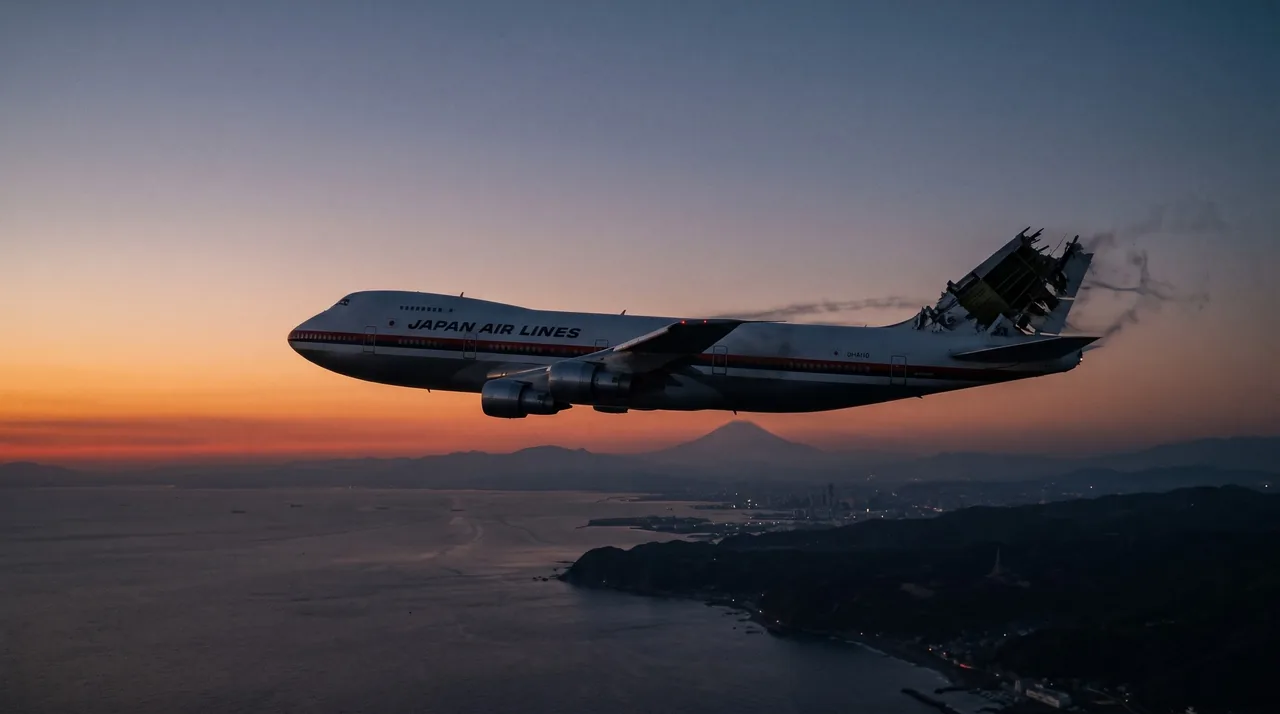
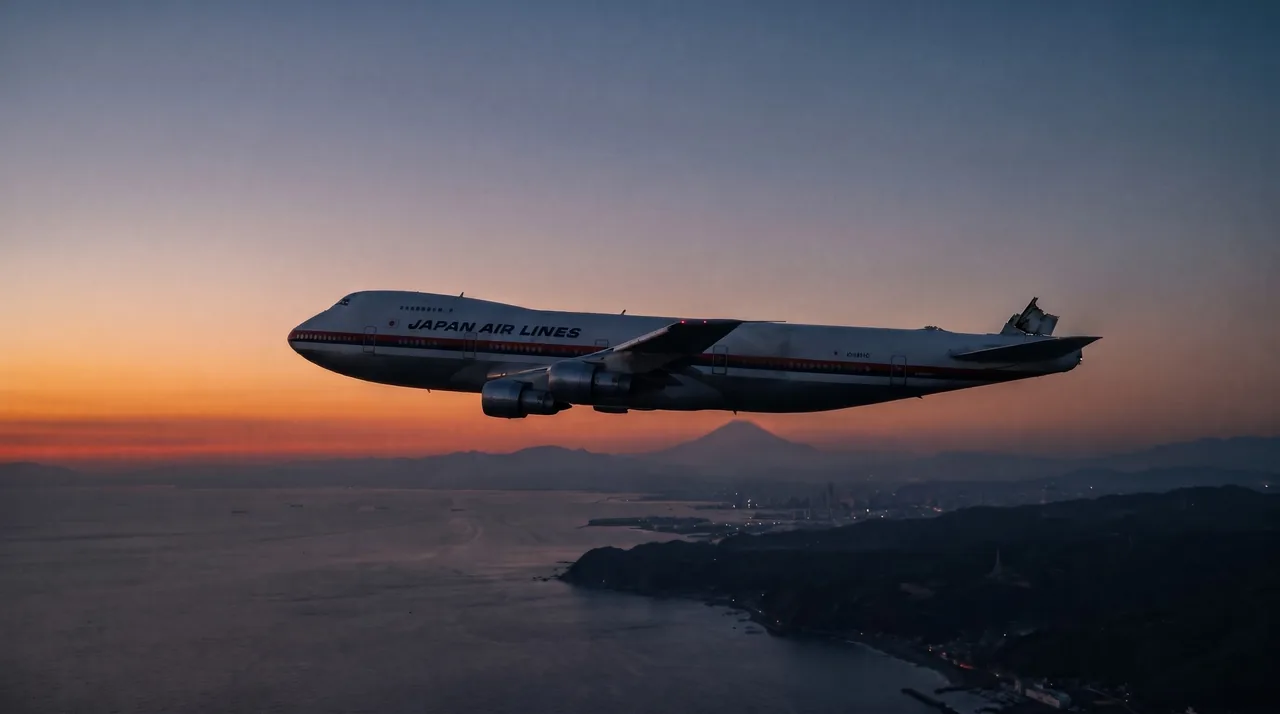
Hangar Escola: imagens nos capítulos 3 e 7 a 11 do JAL 123
Claude-Session: https://claude.ai/code/session_01PxKViBYL6qRqF4hkoHqSJb

Changed region(s): [[0.6875, 0.3081, 0.9062, 0.493], [0.5312, 0.4006, 0.6562, 0.4622]]

diff --git a/aviao/desastres.js b/aviao/desastres.js
@@ -149,15 +149,15 @@ const ACIDENTES = [
     p: ["Na cabine de comando, os alarmes tocavam. Os pilotos primeiro pensaram que uma das portas do fundo tinha se aberto. Acionaram o código 7700 de emergência e pediram ao controle de Tóquio para voltar a Haneda.", "Foi então que o engenheiro de voo leu os mostradores e deu a pior notícia possível: a pressão hidráulica estava caindo. Os quatro sistemas hidráulicos do 747, os \"músculos\" que movem os lemes, os ailerons e os profundores, tinham as linhas passando pela cauda. Todas foram cortadas, e o fluido vazou em poucos minutos.", "O comandante girava o manche e nada acontecia. O avião simplesmente não obedecia. Quando o controlador pediu para virarem, a resposta pelo rádio foi uma palavra só: \"Uncontrollable\". Incontrolável.", "Percebendo a situação, o controlador fez algo raro: liberou a tripulação para falar em japonês em vez do inglês padrão da aviação, para que eles não perdessem nenhum segundo traduzindo. Os outros aviões foram afastados da frequência.", "A investigação observou depois que os pilotos não colocaram as próprias máscaras de oxigênio. A 24.000 pés, a falta de ar pode ter atrapalhado o raciocínio nos primeiros minutos, justamente os mais críticos."] },
   { t: "A montanha-russa: fugoide e dutch roll", parte: 2, hora: "18h30", lugar: "Sobre a península de Izu", sabia: "Num avião normal, a fugoide é tão lenta e suave que o piloto corrige sem perceber. O que tornou o JAL 123 terrível foi não haver comandos para amortecê-la.", cena: CENAS.fugoide,
     p: ["Sem a deriva e sem comandos, o 747 entrou em dois movimentos que normalmente o próprio avião e os pilotos corrigem sem que ninguém perceba.", "O primeiro foi a fugoide. Funciona como uma gangorra entre altura e velocidade: o nariz sobe, o avião ganha altura mas perde velocidade; com menos velocidade, as asas sustentam menos e o nariz cai; descendo, ele ganha velocidade, a sustentação volta e o nariz sobe de novo. O ciclo se repete, e cada onda pode levar mais de um minuto. Num avião normal, os profundores amortecem isso. No JAL 123, sem hidráulico, ninguém conseguia parar a gangorra. Por dentro, era como estar num elevador que sobe e despenca sem parar.", "O segundo foi o dutch roll: o avião guinava para um lado, inclinava as asas, guinava para o outro, num balanço em forma de \"S\" deitado. Quem amortece esse movimento é justamente o estabilizador vertical, e ele não existia mais.", "Os dois movimentos juntos faziam o avião subir, cair e balançar ao mesmo tempo. Para os passageiros, eram 30 minutos de enjoo, medo e incerteza."] },
-  { t: "Pilotando com os motores", parte: 2, hora: "18h40", lugar: "Rumo ao norte, sobre Yamanashi", sabia: "Em 1989, a tripulação do voo United 232, em Sioux City, nos Estados Unidos, também perdeu todo o hidráulico e usou só os motores para chegar a uma pista.", cena: CENAS.manetes,
+  { t: "Pilotando com os motores", foto: { src: "assets/jal123-manetes.webp", legenda: "As quatro manetes de um 747 clássico: sem hidráulico, eram o único controle que restava aos pilotos (imagem ilustrativa)" }, parte: 2, hora: "18h40", lugar: "Rumo ao norte, sobre Yamanashi", sabia: "Em 1989, a tripulação do voo United 232, em Sioux City, nos Estados Unidos, também perdeu todo o hidráulico e usou só os motores para chegar a uma pista.", cena: CENAS.manetes,
     p: ["Sem nenhum comando, sobrava uma única ferramenta: os quatro motores. A tripulação começou a mexer nas manetes de um jeito que nenhum manual ensinava. Mais potência para o nariz subir, menos potência para descer, mais força de um lado que do outro para tentar virar.", "Funcionou, em parte. Era como dirigir um carro sem volante, usando só o acelerador e a diferença de força entre as rodas. Às 18h40, baixaram o trem de pouso pelo sistema alternativo, que solta as rodas pela gravidade. O arrasto das rodas ajudou a amortecer as oscilações e deixou o avião um pouco mais estável.", "A base aérea americana de Yokota, a oeste de Tóquio, avisou que estava pronta para recebê-los. Mas fazer um 747 sem comandos acertar uma pista era quase impossível, e o avião foi sendo levado para o noroeste, em direção às montanhas de Gunma."] },
-  { t: "Os últimos minutos", parte: 2, hora: "18h56", lugar: "Montanhas de Gunma", sabia: "O GPWS, o sistema de alerta de proximidade do solo, avisa com voz e luz quando o avião está perigosamente perto do terreno.", cena: CENAS.montanhas,
+  { t: "Os últimos minutos", foto: { src: "assets/jal123-montanhas.webp", legenda: "Recriação de um 747 em descida descontrolada sobre as montanhas, ao anoitecer (imagem ilustrativa)" }, parte: 2, hora: "18h56", lugar: "Montanhas de Gunma", sabia: "O GPWS, o sistema de alerta de proximidade do solo, avisa com voz e luz quando o avião está perigosamente perto do terreno.", cena: CENAS.montanhas,
     p: ["O avião perdeu milhares de pés numa descida longa e chegou perto de montanhas mais altas que ele. Com os motores no máximo, a tripulação conseguiu fazê-lo subir de novo. Na gravação da cabine, ouve-se o comandante repetindo para levantar o nariz, a voz cada vez mais tensa.", "Em certo momento ele disse: \"Isto pode não ter jeito\". Mesmo assim, os três não pararam. Ajustavam as manetes, liam os instrumentos e trocavam informações até o último segundo.", "Nos minutos finais, o alarme de proximidade do solo começou a gritar \"pull up\", \"pull up\". Às 18h56, depois de 32 minutos sem comandos, a ponta da asa direita tocou as árvores de uma crista, o avião virou e bateu no terreno perto do Cume Osutaka, na província de Gunma, a cerca de 100 km de Tóquio. Ele se partiu e pegou fogo."] },
-  { t: "Bilhetes de despedida", parte: 3, hora: "18h56", lugar: "Os bilhetes", sabia: "Os bilhetes escritos durante a descida foram entregues às famílias e se tornaram um dos símbolos da memória do voo 123 no Japão.", cena: CENAS.bilhetes,
+  { t: "Bilhetes de despedida", foto: { src: "assets/jal123-bilhete.webp", legenda: "Página da agenda de um passageiro, com uma mensagem de despedida à família escrita durante a descida" }, parte: 3, hora: "18h56", lugar: "Os bilhetes", sabia: "Os bilhetes escritos durante a descida foram entregues às famílias e se tornaram um dos símbolos da memória do voo 123 no Japão.", cena: CENAS.bilhetes,
     p: ["Durante aquela meia hora, alguns passageiros entenderam o que estava acontecendo e escreveram mensagens para quem ficava. Em agendas, cartões e no verso de envelopes, com a letra tremida pelo balanço do avião.", "Um pai escreveu aos filhos pedindo que fossem bons e cuidassem da mãe. Outros só deixaram \"obrigado\" e \"adeus\". Os bilhetes foram encontrados nos destroços e entregues às famílias. Até hoje são lembrados no Japão como o retrato mais humano da tragédia.", "Entre as 520 vítimas estava Kyu Sakamoto, cantor de \"Ue o Muite Arukō\", a música conhecida no mundo como \"Sukiyaki\", que em 1963 chegou ao primeiro lugar nos Estados Unidos."] },
-  { t: "A noite na montanha", parte: 3, hora: "19h15", lugar: "Cume Osutaka, Gunma", sabia: "O local do acidente fica numa área de montanha, sem estrada: as equipes tiveram de chegar pela floresta, em terreno muito íngreme.", cena: CENAS.noite,
+  { t: "A noite na montanha", foto: { src: "assets/jal123-c130.webp", legenda: "Recriação da vista da cabine de um avião de busca sobre o fogo na encosta, naquela noite (imagem ilustrativa)" }, parte: 3, hora: "19h15", lugar: "Cume Osutaka, Gunma", sabia: "O local do acidente fica numa área de montanha, sem estrada: as equipes tiveram de chegar pela floresta, em terreno muito íngreme.", cena: CENAS.noite,
     p: ["Cerca de 20 minutos depois da queda, a tripulação de um avião C-130 da Força Aérea americana, da base de Yokota, viu os destroços em chamas na encosta e passou a posição. Um helicóptero americano chegou a ser mandado, mas a ajuda não foi aceita. As equipes japonesas só chegaram ao local na manhã seguinte, mais de 12 horas depois.", "Lá encontraram quatro sobreviventes, todas mulheres, entre elas a comissária de folga e uma menina de 12 anos. Elas contaram que, durante a noite, ouviram outras pessoas vivas chamando e gemendo nos destroços, vozes que foram se calando até o amanhecer. Médicos disseram depois que mais gente poderia ter sido salva se o resgate tivesse chegado antes."] },
-  { t: "A investigação", parte: 4, hora: "1985–87", lugar: "Comissão de investigação", sabia: "O NTSB, que participou da investigação, é a agência americana que investiga acidentes de avião, trem, navio e estrada.", cena: CENAS.lupa,
+  { t: "A investigação", foto: { src: "assets/jal123-deriva.webp", legenda: "Recriação de um pedaço do estabilizador vertical boiando no mar, como os que foram achados na baía de Sagami (imagem ilustrativa)" }, parte: 4, hora: "1985–87", lugar: "Comissão de investigação", sabia: "O NTSB, que participou da investigação, é a agência americana que investiga acidentes de avião, trem, navio e estrada.", cena: CENAS.lupa,
     p: ["A investigação ficou a cargo da Comissão de Investigação de Acidentes Aeronáuticos do Japão, com a participação do NTSB, a agência americana de segurança nos transportes, e de engenheiros da Boeing.", "Partes da cauda foram encontradas boiando na baía de Sagami, exatamente por onde o avião passava às 18h24. Era a prova de que o problema tinha começado lá atrás, em pleno voo, e não na queda.", "Nos destroços, os investigadores examinaram a antepara traseira de perto, com lupas e microscópios. Ao longo de uma emenda, encontraram rachaduras de fadiga que tinham crescido aos poucos, voo após voo, em volta dos furos dos rebites. Seguindo essas marcas, chegaram a um conserto feito sete anos antes.", "O relatório final, publicado em junho de 1987, concluiu que a antepara cedeu por causa de um reparo malfeito em 1978. A Boeing assumiu a responsabilidade pelo erro."] },
   { t: "O improviso de 1978", parte: 4, hora: "1978", lugar: "Aeroporto de Osaka", sabia: "A antepara traseira fecha a cabine pressurizada como a tampa de uma garrafa térmica. A cada voo, ela é empurrada pela pressão e relaxa de novo no pouso.", cena: CENAS.emenda,
     p: ["Em 2 de junho de 1978, o JA8119 bateu a cauda na pista ao pousar em Osaka. A traseira da fuselagem e a antepara de pressão foram danificadas. Para consertar, a JAL contratou uma equipe de reparo de emergência da própria Boeing, aquelas que viajam para colocar um avião danificado de volta em serviço.", "A equipe trocou a metade de baixo da antepara. Mas a peça nova não ficou bem alinhada com a parte antiga: num trecho, as fileiras de rebites ficavam perto demais da borda da chapa. Para fazer a emenda caber, cortaram a placa de reforço em duas. Foi um improviso, uma \"gambiarra\" fora das instruções de reparo.", "Com isso, num trecho a junção ficou presa por uma fileira só de rebites, quando deviam ser duas. A peça passou a ter cerca de 70% da resistência à fadiga prevista. E, como as placas sobrepostas escondiam o defeito, as inspeções da JAL nunca o encontraram.", "Muita gente atribui o improviso à pressa de devolver o avião ao serviço, já que um 747 parado no chão custa caro todos os dias. A investigação oficial, porém, não chegou a essa conclusão: ela apontou o corte da placa, mas não o motivo da pressa. O que se sabe é que o erro ficou ali, escondido, por mais de 12.000 voos."] },

diff --git a/aviao/sw.js b/aviao/sw.js
@@ -1,7 +1,7 @@
 /* Service worker: o app abre e funciona offline. */
-const CACHE = 'hangar-escola-v106';
+const CACHE = 'hangar-escola-v107';
 // Os arquivos levam "?v=" no index.html: ao mudar a versão, o celular nunca mistura CSS/JS antigo com HTML novo.
-const FILES = ['./', 'index.html', 'style.css?v=106', 'avioes.js?v=106', 'catalogo747.js?v=106', 'cockpit747.js?v=106', 'motor3d.js?v=106', 'motor747.js?v=106', 'meteo.js?v=106', 'radio.js?v=106', 'historia.js?v=106', 'desastres.js?v=106', 'app.js?v=106', 'icon.svg', 'manifest.webmanifest', 'assets/747-lateral.jpg', 'assets/747-frontal.jpg', 'assets/747-motor.jpg', 'assets/747-superior.png', 'assets/747-lado.webp', 'assets/747-lado-prof.webp', 'assets/747-tras.webp', 'assets/747-tras-trem.webp', 'assets/bank-angle.mp3', 'assets/v1.mp3', 'assets/nuvem-cb.webp', 'assets/nuvem-cu.webp', 'assets/nuvem-ci.webp', 'assets/nuvem-cc.webp', 'assets/nuvem-cs.webp', 'assets/nuvem-ac.webp', 'assets/nuvem-as.webp', 'assets/nuvem-ns.webp', 'assets/nuvem-sc.webp', 'assets/nuvem-st.webp', 'assets/nuvens-atlas.webp', 'assets/historia-1881.webp', 'assets/historia-vevey.webp', 'assets/historia-serraria.webp', 'assets/historia-dominguez.webp', 'assets/historia-curtiss.webp', 'assets/jal123-mapa.webp', 'assets/jal123-haneda.webp', 'assets/jal123-decolagem.webp', 'assets/jal123-cauda.webp', 'assets/jal123-cabine.webp', 'assets/jal123-hidraulico.webp'];
+const FILES = ['./', 'index.html', 'style.css?v=107', 'avioes.js?v=107', 'catalogo747.js?v=107', 'cockpit747.js?v=107', 'motor3d.js?v=107', 'motor747.js?v=107', 'meteo.js?v=107', 'radio.js?v=107', 'historia.js?v=107', 'desastres.js?v=107', 'app.js?v=107', 'icon.svg', 'manifest.webmanifest', 'assets/747-lateral.jpg', 'assets/747-frontal.jpg', 'assets/747-motor.jpg', 'assets/747-superior.png', 'assets/747-lado.webp', 'assets/747-lado-prof.webp', 'assets/747-tras.webp', 'assets/747-tras-trem.webp', 'assets/bank-angle.mp3', 'assets/v1.mp3', 'assets/nuvem-cb.webp', 'assets/nuvem-cu.webp', 'assets/nuvem-ci.webp', 'assets/nuvem-cc.webp', 'assets/nuvem-cs.webp', 'assets/nuvem-ac.webp', 'assets/nuvem-as.webp', 'assets/nuvem-ns.webp', 'assets/nuvem-sc.webp', 'assets/nuvem-st.webp', 'assets/nuvens-atlas.webp', 'assets/historia-1881.webp', 'assets/historia-vevey.webp', 'assets/historia-serraria.webp', 'assets/historia-dominguez.webp', 'assets/historia-curtiss.webp', 'assets/jal123-mapa.webp', 'assets/jal123-haneda.webp', 'assets/jal123-decolagem.webp', 'assets/jal123-cauda.webp', 'assets/jal123-cabine.webp', 'assets/jal123-hidraulico.webp', 'assets/jal123-manetes.webp', 'assets/jal123-montanhas.webp', 'assets/jal123-bilhete.webp', 'assets/jal123-c130.webp', 'assets/jal123-deriva.webp'];
 
 self.addEventListener('install', (e) => {
   e.waitUntil(caches.open(CACHE).then((c) => c.addAll(FILES)).then(() => self.skipWaiting()));

diff --git a/aviao/index.html b/aviao/index.html
@@ -13,7 +13,7 @@
   <link rel="preconnect" href="https://fonts.googleapis.com">
   <link rel="preconnect" href="https://fonts.gstatic.com" crossorigin>
   <link href="https://fonts.googleapis.com/css2?family=Barlow+Condensed:wght@500;600;700&family=IBM+Plex+Mono:wght@400;500&family=IBM+Plex+Sans:wght@400;500;600&display=swap" rel="stylesheet">
-  <link rel="stylesheet" href="style.css?v=106">
+  <link rel="stylesheet" href="style.css?v=107">
 </head>
 <body>
   <!-- Intro: o avião decola pela pista iluminada e aparece o nome do app (toque para pular) -->
@@ -984,16 +984,16 @@
       </div>
     </section>
   </aside>
-  <script src="avioes.js?v=106"></script>
-  <script src="catalogo747.js?v=106"></script>
-  <script src="cockpit747.js?v=106"></script>
-  <script src="motor3d.js?v=106"></script>
-  <script src="motor747.js?v=106"></script>
-  <script src="meteo.js?v=106"></script>
-  <script src="radio.js?v=106"></script>
-  <script src="historia.js?v=106"></script>
-  <script src="desastres.js?v=106"></script>
-  <script src="app.js?v=106"></script>
+  <script src="avioes.js?v=107"></script>
+  <script src="catalogo747.js?v=107"></script>
+  <script src="cockpit747.js?v=107"></script>
+  <script src="motor3d.js?v=107"></script>
+  <script src="motor747.js?v=107"></script>
+  <script src="meteo.js?v=107"></script>
+  <script src="radio.js?v=107"></script>
+  <script src="historia.js?v=107"></script>
+  <script src="desastres.js?v=107"></script>
+  <script src="app.js?v=107"></script>
   <script>
     // No APK os arquivos já vêm dentro do app; o service worker é só para o site.
     const nativo = !!(window.Capacitor && window.Capacitor.isNativePlatform && window.Capacitor.isNativePlatform());
